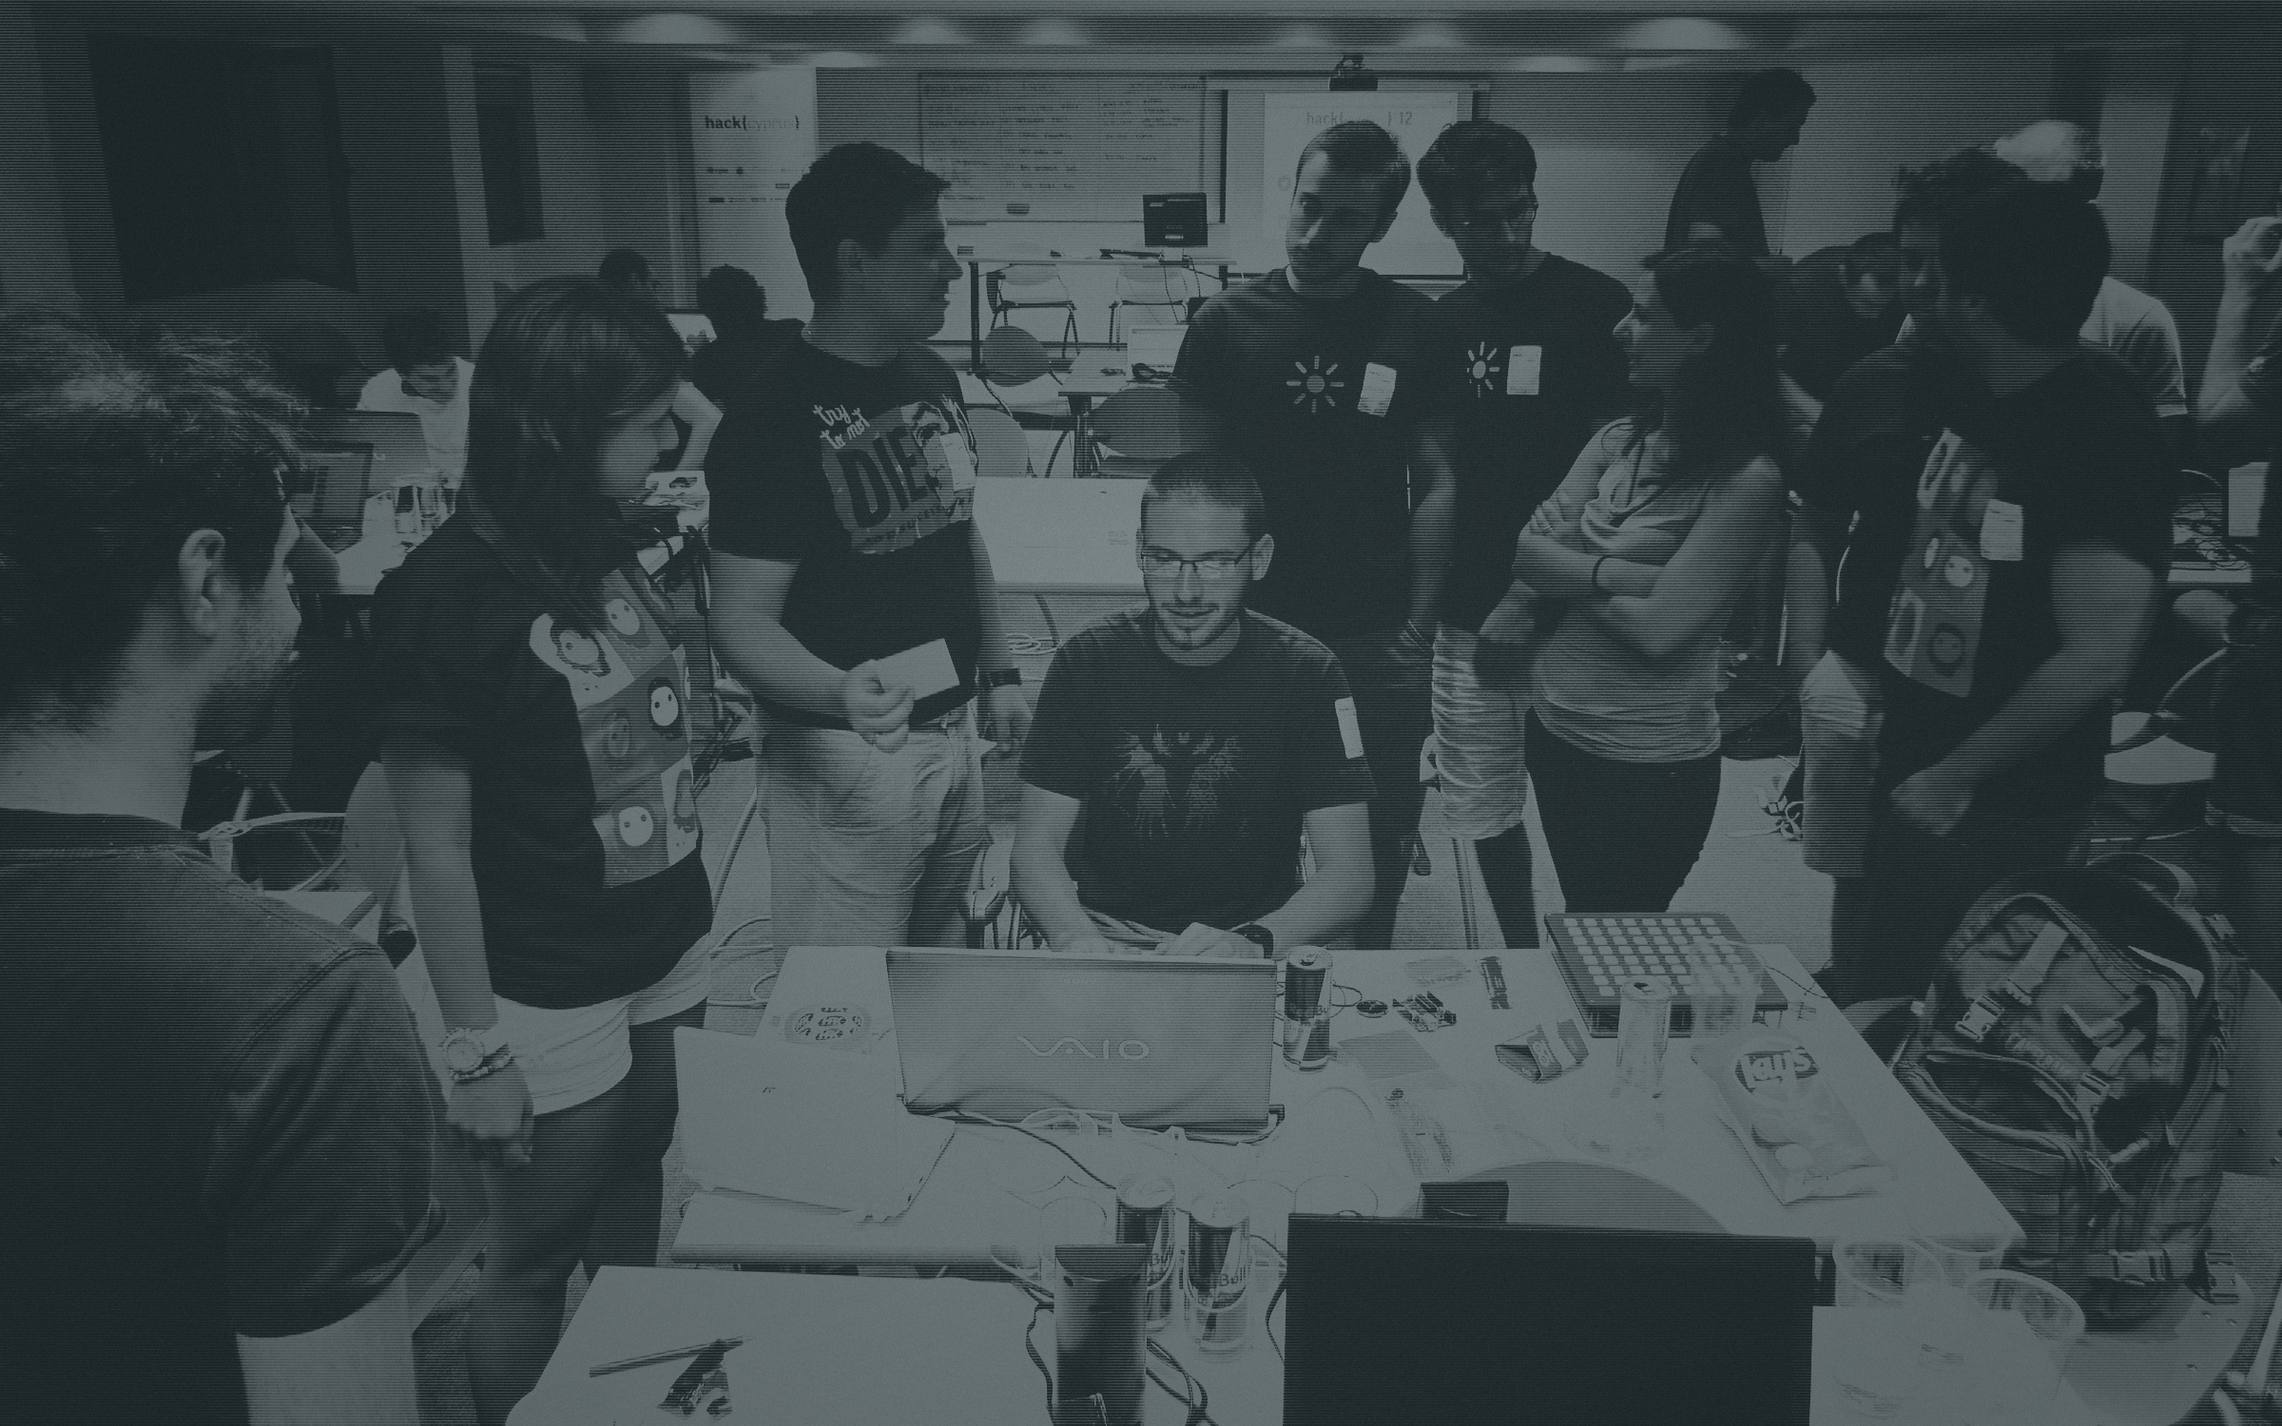
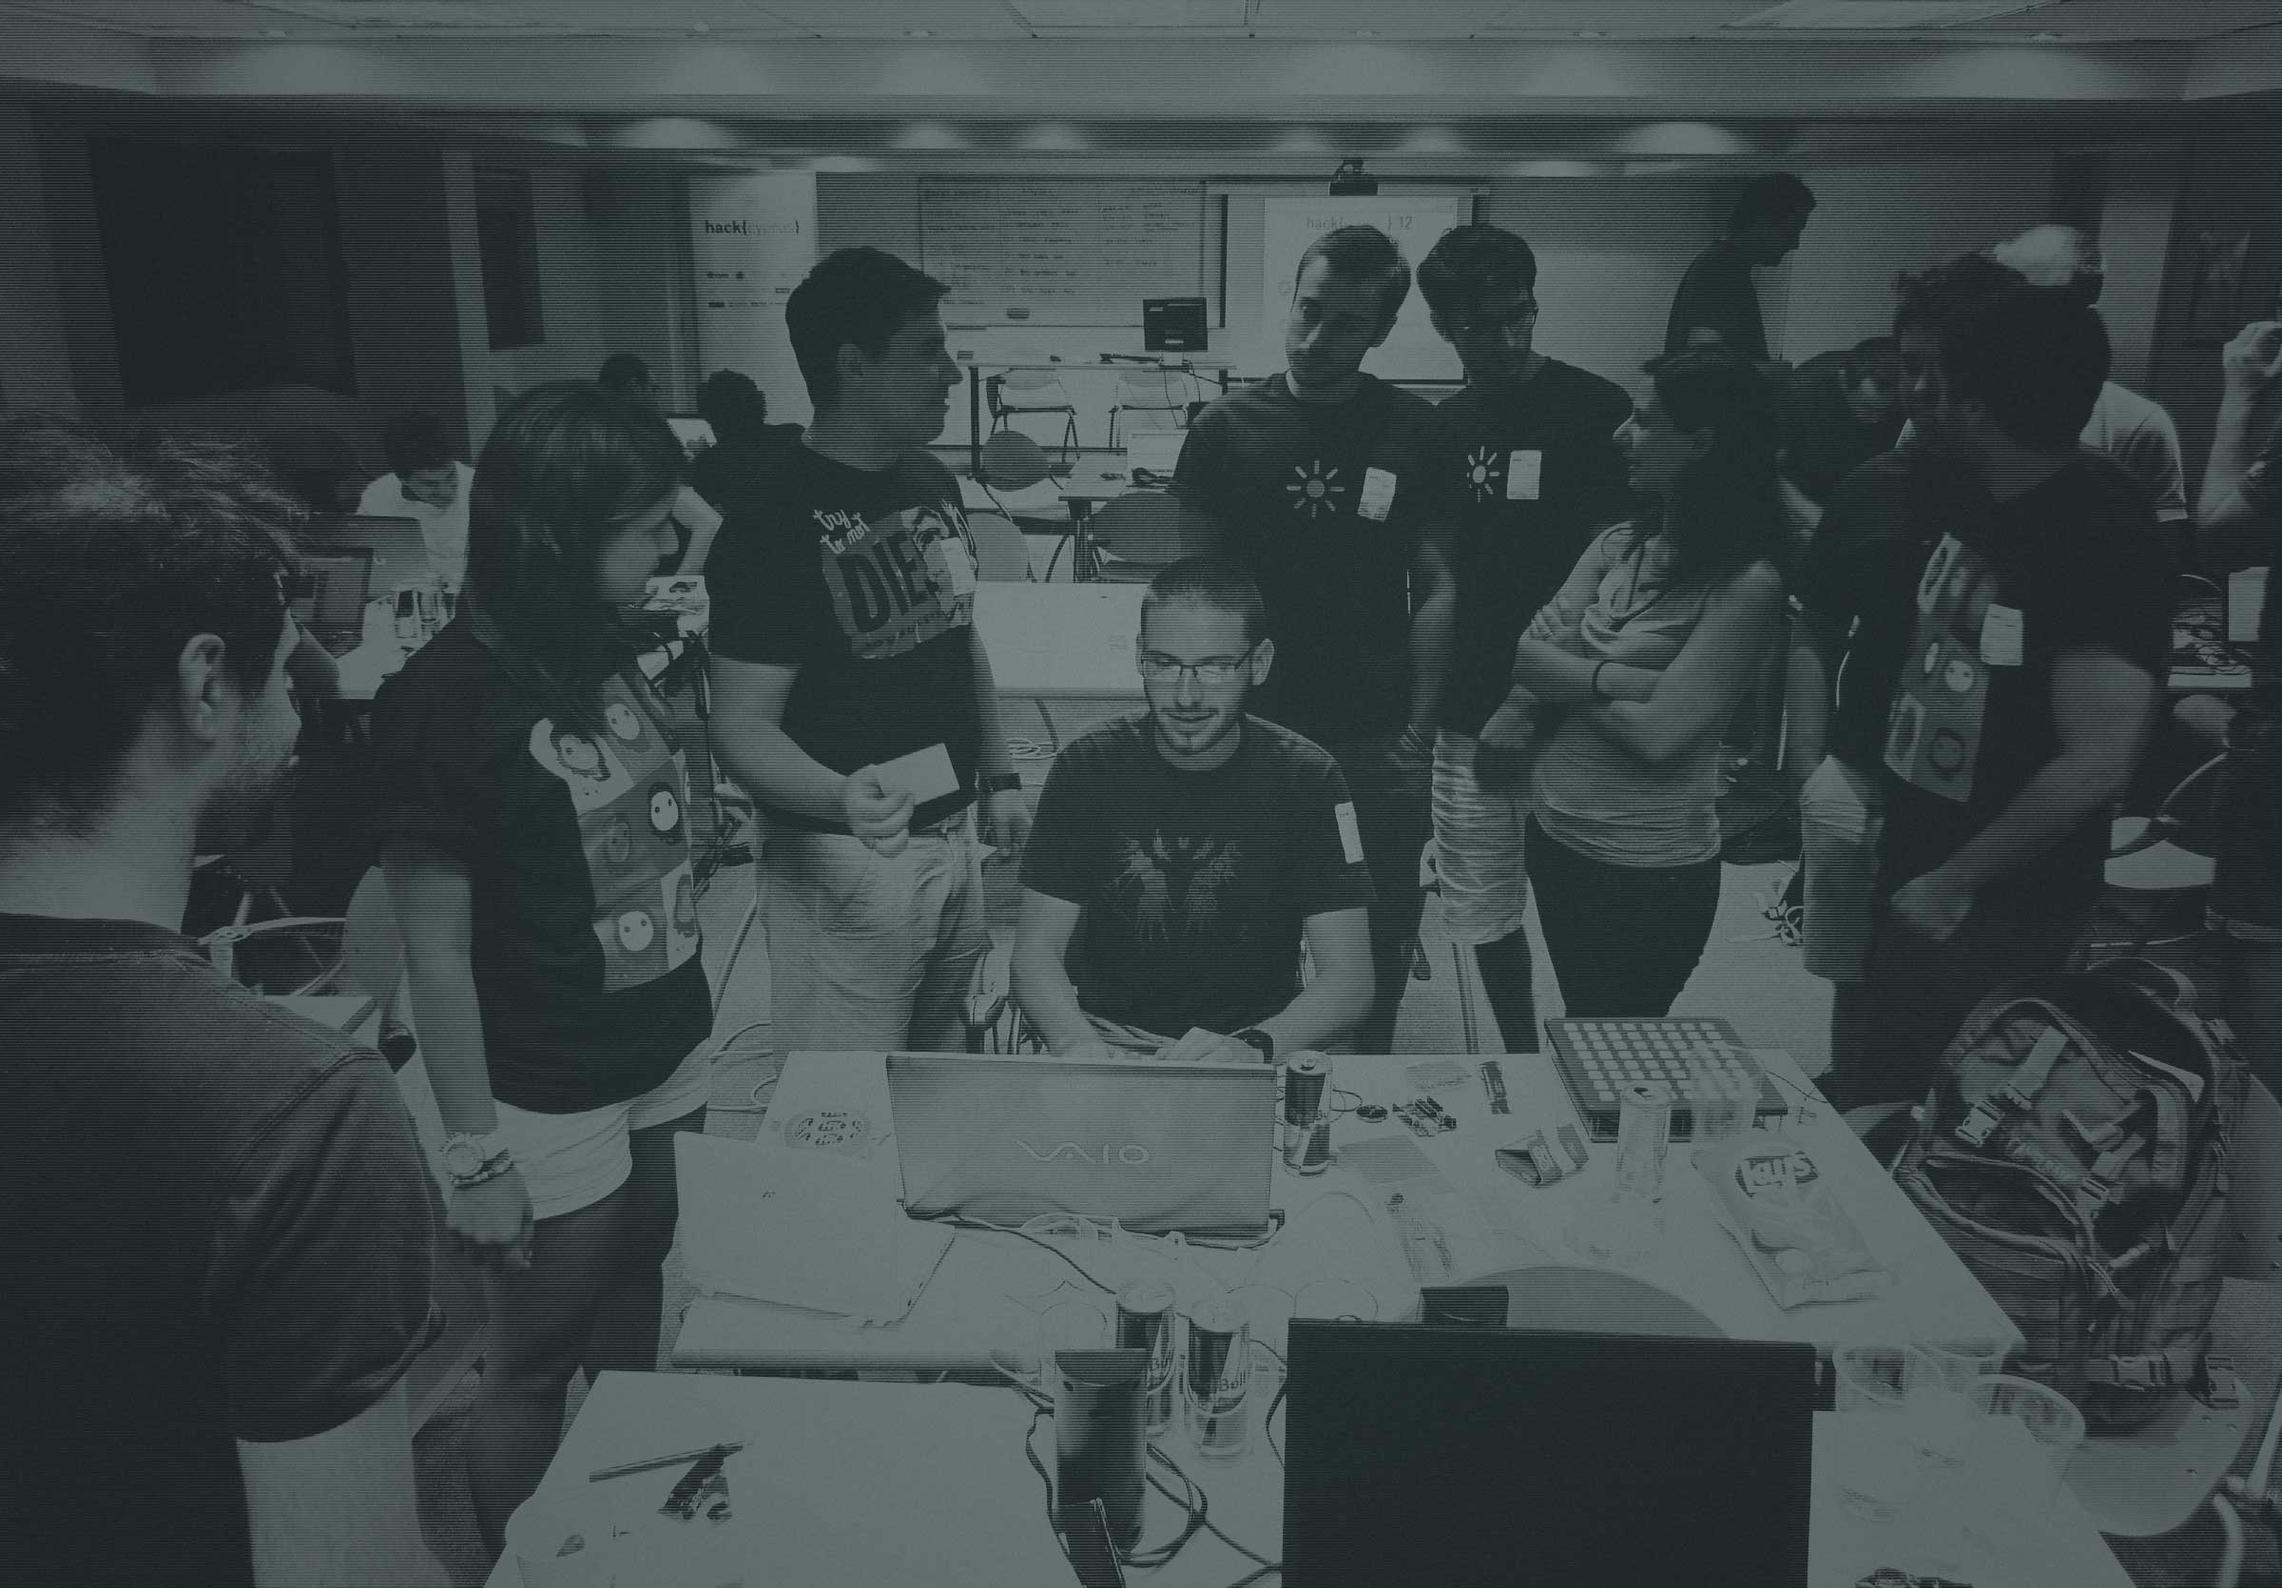
Resizing like a boss

diff --git a/_includes/_team.html b/_includes/_team.html
@@ -1,0 +1,51 @@
+<article class="slide centered" id="team">
+  <div class="container">
+    <div class="content">
+      
+      <h1>Meet the team</h1>
+
+      <ul id="people">
+
+        <li>
+          <article class="person">
+            <img src="/images/george-e.png" height="143">
+            <h1>George<br/> Eracleous</h1>
+            <p>"The something"</p>
+
+            <a href="https://twitter.com/geracleous" class="twitter-follow-button" data-show-count="false">Follow @geracleous</a>
+          </article>
+        </li>
+
+        <li>
+          <article class="person">
+            <img src="/images/george-m.png" height="143">
+            <h1>George<br/> Makkoulis</h1>
+            <p>"The something"</p>
+
+            <a href="https://twitter.com/gmakkoulis" class="twitter-follow-button" data-show-count="false">Follow @gmakkoulis</a>
+          </article>
+        </li>
+
+        <li>
+          <article class="person">
+            <img src="/images/alex-m.png" height="143">
+            <h1>Alexis<br/> Michael</h1>
+            <p>"The Hacker"</p>
+           
+            <a href="https://twitter.com/alexismic" class="twitter-follow-button" data-show-count="false">Follow @alexismic</a>
+          </article>
+        </li>
+
+        <li>
+          <article class="person">
+            <img src="/images/gearoid.png" height="143">
+            <h1>Gearóid<br/> O'Rourke</h1>
+            <p>"The Designer"</p>
+            <a href="https://twitter.com/orourkedesign" class="twitter-follow-button" data-show-count="false">Follow @orourkedesign</a>
+          </article>
+        </li>
+      </ul>
+
+    </div>
+  </div>
+</article>

diff --git a/js/main.js b/js/main.js
@@ -1,11 +1,57 @@
-$(".slide").each(function() {
+// Make slides fit screen
+$.slideSize = function(){
+
+  $(".slide").each(function() {
+    
+    var contentHeight = $(this).find('.content').outerHeight();
+    var slideHeight = $(window).outerHeight();
+    var topPosition  = (slideHeight-contentHeight)/2;
+    
+    $(this).css("height", slideHeight);
+    $(this).find(".content").css("top", topPosition+35);
+    
+  });
+
+};
+
+// Make sure that head image is always full-bleed
+$.fullBleed = function(){
   
-  var contentHeight = $(this).find('.content').outerHeight();
-  var slideHeight = $(window).outerHeight();
-  var topPosition  = (slideHeight-contentHeight)/2;
-  
-  $(this).css("height", slideHeight);
-  $(this).find(".content").css("top", topPosition);
-  
+  $(".full-bleed").each(function(){
+
+    var wW = $(window).outerWidth();
+    var wH = $(window).outerHeight();
+
+    if(wW > wH){
+      $(this).css({
+        "width": "110%",
+        "height": "auto"
+        });
+    }
+
+    else {
+      $(this).css({
+        "width": "auto",
+        "height": "110%"
+        });
+    }
+
+  });
+
+};
+
+
+// Call sldeSize and fullBleed when we're ready to rock and roll  
+$(document).ready(function(){
+  $.slideSize();
+  $.fullBleed();
+
 });
+
+// Listen for window resize events, debounce and call them again.
+$(window).smartresize(function(){
+  $.slideSize();
+  $.fullBleed();
+});
+
 

diff --git a/css/hackcyprus-2013.css b/css/hackcyprus-2013.css
@@ -420,6 +420,7 @@ a#logo h1 b {
 #intro {
   position: relative;
   overflow: hidden;
+  background: #2e3a3a;
 }
 #intro .content {
   width: 100%;
@@ -439,8 +440,8 @@ a#logo h1 b {
 }
 #intro .big-un img {
   display: block;
-  height: 100%;
   margin: 0 auto;
+  height: 100%;
 }
 #word-art {
   margin: 0 auto;
@@ -504,6 +505,58 @@ a#logo h1 b {
 }
 #insights p {
   color: #a6b2b1;
+}
+#team {
+  background: #d1d8d8;
+}
+#team .content {
+  width: 60em;
+}
+#team #people {
+  zoom: 1;
+  margin-bottom: 4em;
+}
+#team #people:before,
+#team #people:after {
+  content: "";
+  display: table;
+}
+#team #people:after {
+  clear: both;
+}
+#team #people li {
+  float: left;
+  width: 20%;
+  margin: 0 2.5%;
+}
+#team #people .person {
+  border: 2px solid #fff;
+  -webkit-border-radius: 3px;
+  -moz-border-radius: 3px;
+  border-radius: 3px;
+  padding: 1em;
+}
+#team #people .person img {
+  width: 100%;
+}
+#team #people .person h1 {
+  font-size: 1.25em;
+  font-weight: 600;
+  color: #2e3a3a;
+}
+#team #people .person p {
+  font-style: italic;
+  font-size: 0.875em;
+  color: #556363;
+  padding-bottom: 1em;
+  margin-bottom: 1em;
+  border-bottom: 2px dotted #fff;
+}
+#team #people .person a {
+  font-size: 1em;
+  color: #fff;
+  border: 0;
+  font-weight: 300;
 }
 #supporters p {
   font-size: 1em;

diff --git a/_less/objects/team.less b/_less/objects/team.less
@@ -1,0 +1,51 @@
+#team {
+  background: @mono-20;
+
+
+  .content {
+    width: 60em;
+  }
+
+  #people {
+    .clearfix;
+    margin-bottom: 4em;
+
+    li {
+      float: left;
+      width: 20%;
+      margin: 0 2.5%;
+
+    }
+
+    .person {
+      border: 2px solid #fff;
+      .border-radius(3px);
+      padding: 1em;
+
+      img {
+        width: 100%;
+      }
+      h1 {
+        font-size: 1.25em;
+        font-weight: 600;
+        color: @mono;
+      }
+      p {
+        font-style: italic;
+        font-size: 0.875em;
+        color: @mono-80;
+        padding-bottom: 1em;
+        margin-bottom: 1em;
+        border-bottom: 2px dotted #fff;
+      }
+      a {
+        font-size: 1em;
+        color: #fff;
+        border: 0;
+        font-weight: 300;
+      }
+    }
+
+  }
+
+}

diff --git a/_layouts/base.html b/_layouts/base.html
@@ -30,8 +30,11 @@
     
     <script src="/js/vendor/bootstrap-modal.js"></script>
     <script src="/js/vendor/bootstrap-scrollspy.js"></script>
+    <script src="/js/vendor/irish-smartresize.js"></script>
+
     <script src="/js/main.js"></script>
 
+    <script>!function(d,s,id){var js,fjs=d.getElementsByTagName(s)[0],p=/^http:/.test(d.location)?'http':'https';if(!d.getElementById(id)){js=d.createElement(s);js.id=id;js.src=p+'://platform.twitter.com/widgets.js';fjs.parentNode.insertBefore(js,fjs);}}(document, 'script', 'twitter-wjs');</script>
 
   </body>
 </html>

diff --git a/_includes/_intro.html b/_includes/_intro.html
@@ -1,7 +1,7 @@
 <article class="slide centered" id="intro">
   <div class="container">
     <div class="big-un">
-    <img src="/images/header-bg.jpg">
+    <img src="/images/header-bg.jpg" class="full-bleed">
     </div>
     <div class="content">
       <div id="word-art">

diff --git a/_less/objects/intro.less b/_less/objects/intro.less
@@ -1,6 +1,7 @@
 #intro {
   position: relative;
   overflow: hidden;
+  background: @mono;
 
   .content {
     width: 100%;
@@ -21,8 +22,8 @@
 
     img {
       display: block;
-      height: 100%;
       margin: 0 auto;
+      height: 100%;
     }
   }
 }

diff --git a/index.html b/index.html
@@ -10,4 +10,3 @@ title: Fuck yeah
 {% include _insights.html%}
 {% include _supporters.html%}
 {% include _team.html%}
-{% include _footer.html%}

diff --git a/_includes/_footer.html b/_includes/_footer.html
@@ -1,0 +1,4 @@
+<footer>
+<p>hack{cyprus} is a brainchild of the Cypriot Enterprise Link</p>
+
+</footer>
